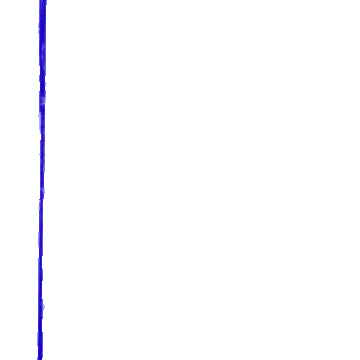
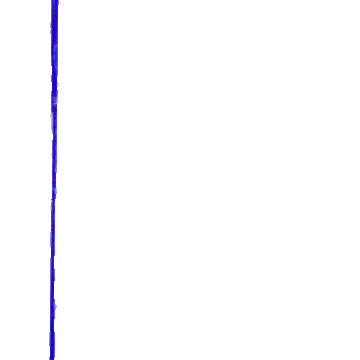
inserindo os riscos

Changed region(s): [[0.0917, 0.0, 0.1833, 1.0]]

diff --git a/jogodavelha.html b/jogodavelha.html
@@ -22,8 +22,8 @@
         <div id="c2" class="quadrado" jogada=""></div>
         <div id="c3" class="quadrado" jogada=""></div>
 
-        <div class="r0">
-            <img id="img2" class="imgP" src="imagens/riscovmA.png">
+        <div id = "risco" class="r0">
+            <img id="img2" class="imgP" >
         </div>
 
     </div>
@@ -40,8 +40,8 @@
 
     <script>
 
-        const jgX = "X";
-        const jgY = "O";
+        var jgX = "X";
+        var jgY = "O";
         var jogador = jgX;
         var fimdojogo = false;
         var images = new Array();
@@ -53,9 +53,7 @@
         var btnreiniciar = document.getElementById("btnreiniciar");
         var jogadorDaVez = document.querySelectorAll("div#caixa #img1")[0];
         var jogadoragora = document.getElementById("jgd");
-
-
-
+        var img2 = document.getElementById("img2");
 
         preloadImages("imagens/x1.png", "imagens/o1.png")
         atualizaPlacar();
@@ -141,8 +139,9 @@
             var c2 = document.getElementById("c2").getAttribute("jogada");
             var c3 = document.getElementById("c3").getAttribute("jogada");
 
-
             var vencedor = "";
+
+            // verificando o vencedor
 
             if (((a1 == b1 && a1 == c1) ||
                 (a1 == a2 && a1 == a3) ||
@@ -160,6 +159,79 @@
                 c3 != "") {
                 vencedor = c3;
             }
+
+            /// Inserindo os riscos
+
+            // verticais
+            if (a1 == b1 && a1 == c1 && vencedor == "X" && a1 != ""){
+                img2.src = "imagens/riscovEA.png";
+                document.getElementById("risco").style.zIndex = "1";
+            }else if (a1 == b1 && a1 == c1 && vencedor == "O" && a1 != ""){
+                img2.src = "imagens/riscovEV.gif";
+                document.getElementById("risco").style.zIndex = "1";
+            }
+
+            if (a2 == b2 && a2 == c2 && vencedor == "X" && a2 != "") {
+                img2.src = "imagens/riscovMA.png";
+                document.getElementById("risco").style.zIndex = "1";
+            } else if (a2 == b2 && a2 == c2 && vencedor == "O" && a2 != "") {
+                img2.src = "imagens/riscovMV.gif";
+                document.getElementById("risco").style.zIndex = "1";
+            }
+
+            if (a3 == b3 && a3 == c3 && vencedor == "X" && a3 != "") {
+                img2.src = "imagens/riscovDA.png";
+                document.getElementById("risco").style.zIndex = "1";
+            } else if (a3 == b3 && a3 == c3 && vencedor == "O" && a3 != "") {
+                img2.src = "imagens/riscovDV.gif";
+                document.getElementById("risco").style.zIndex = "1";
+            }
+
+
+            //horizontais
+
+            if (a1 == a2 && a1 == a3 && vencedor == "X" && a1 != "") {
+                img2.src = "imagens/riscohCA.png";
+                document.getElementById("risco").style.zIndex = "1";
+            } else if (a1 == a2 && a1 == a3 && vencedor == "O" && a1 != "")  {
+                img2.src = "imagens/riscohCV.gif";
+                document.getElementById("risco").style.zIndex = "1";
+            }
+
+            if (b1 == b2 && b1 == b3 && vencedor == "X" && b1 != "") {
+                img2.src = "imagens/riscohMA.png";
+                document.getElementById("risco").style.zIndex = "1";
+            } else if (b1 == b2 && b1 == b3 && vencedor == "O" && b1 != "") {
+                img2.src = "imagens/riscohMV.gif";
+                document.getElementById("risco").style.zIndex = "1";
+            }
+
+            if (c1 == c2 && c1 == c3 && vencedor == "X" && c1 != "") {
+                img2.src = "imagens/riscohBA.png";
+                document.getElementById("risco").style.zIndex = "1";
+            } else if (c1 == c2 && c1 == c3 && vencedor == "O" && c1 != "")  {
+                img2.src = "imagens/riscohBV.gif";
+                document.getElementById("risco").style.zIndex = "1";
+            }
+
+            //Transversais
+
+            if (a1 == b2 && a1 == c3 && vencedor == "X" && a1 != "") {
+                img2.src = "imagens/riscoeA.png";
+                document.getElementById("risco").style.zIndex = "1";
+            } else if (a1 == b2 && a1 == c3 && vencedor == "O" && a1 != "") {
+                img2.src = "imagens/riscoeV.gif";
+                document.getElementById("risco").style.zIndex = "1";
+            }
+            if (a3 == b2 && a3 == c1 && vencedor == "X" && a3 != "") {
+                img2.src = "imagens/riscodA.png";
+                document.getElementById("risco").style.zIndex = "1";
+            } else if (a3 == b2 && a3 == c1 && vencedor == "O" && a3 != "") {
+                img2.src = "imagens/riscodV.gif";
+                document.getElementById("risco").style.zIndex = "1";
+            }
+
+            //Quem venceu 
 
             if (vencedor != "") {
                 fimdojogo = true;

diff --git a/estilo.css b/estilo.css
@@ -67,7 +67,7 @@ position: absolute;
 width: 360px;
 height: 360px;
  float: right;
-z-index: -1;
+
 
 }
 
